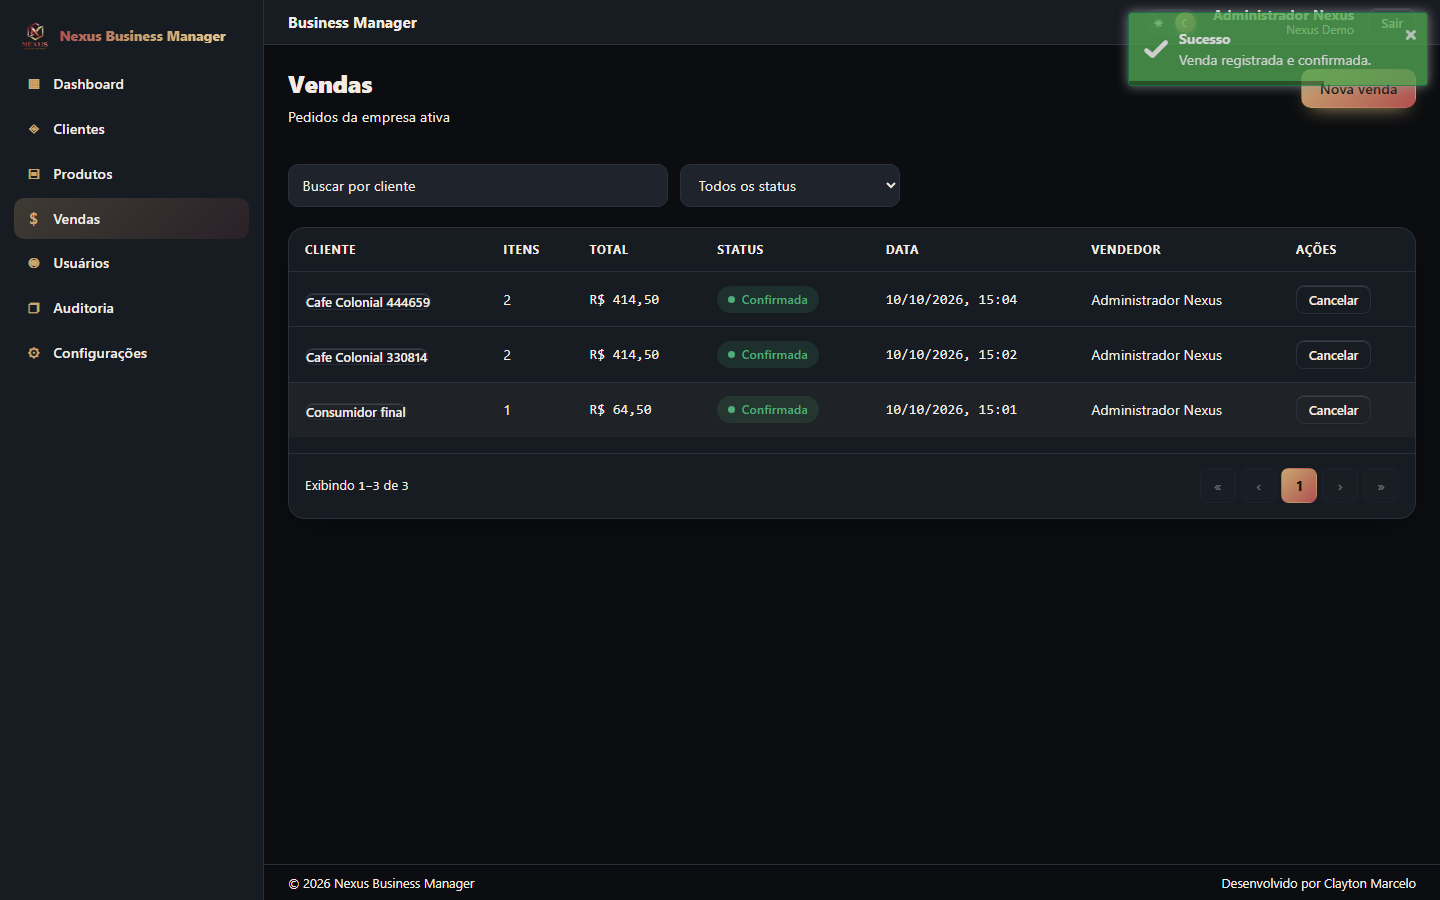
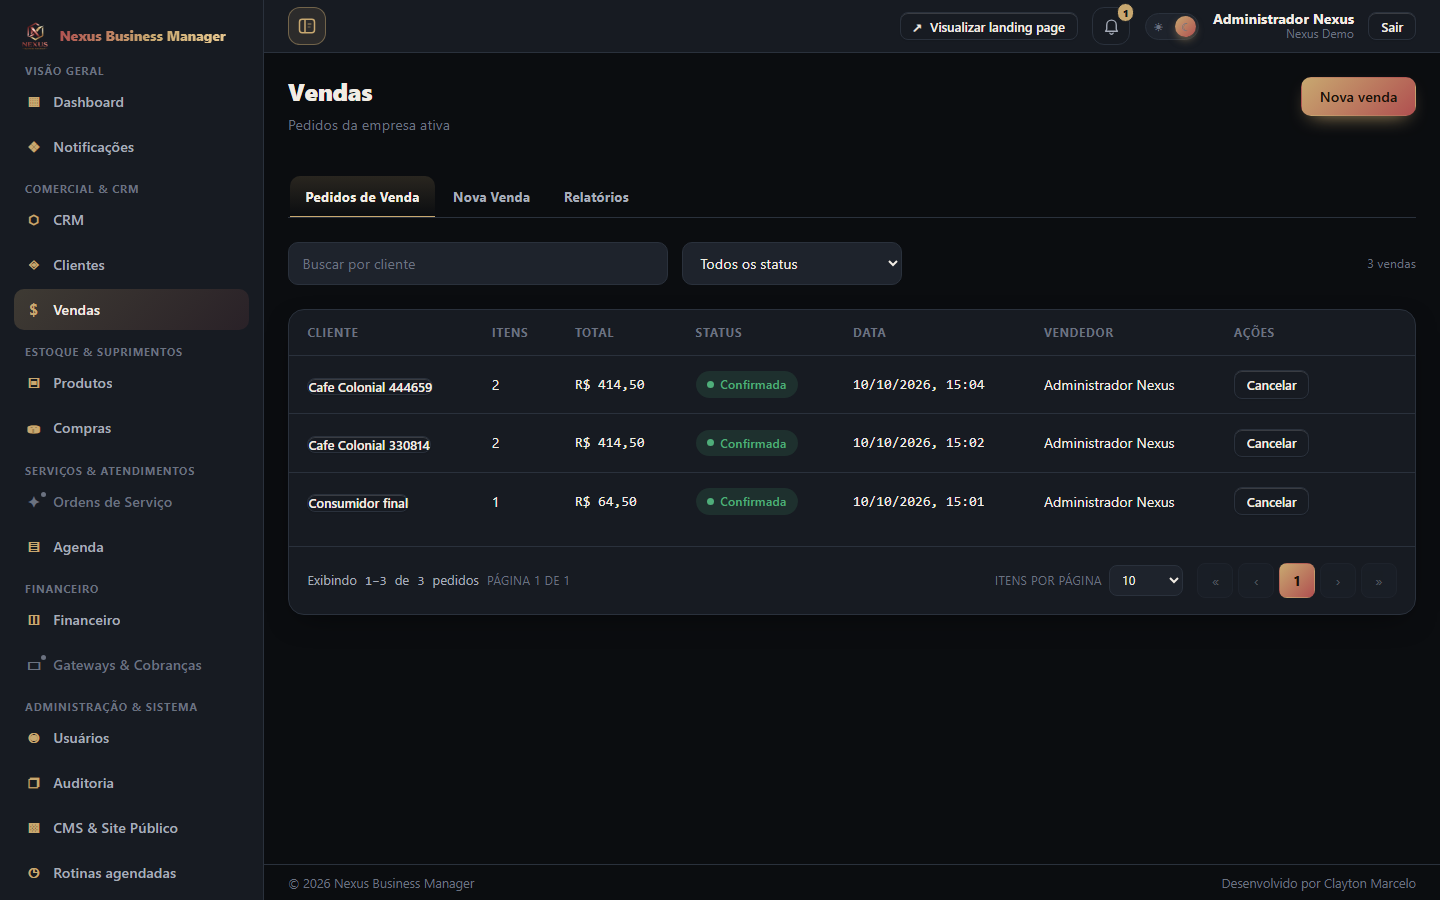
O topo do painel parou de repetir o nome do produto
A marca já mora no menu lateral, no título da aba e no rodapé. No cabeçalho ela
só disputava espaço com o botão do menu, o atalho da landing page, o sino e o
seletor de tema, sem dizer nada que a pessoa ainda não soubesse.

- Saiu o `<div className="admin-header-title">` do `AdminShell.tsx` e, junto, a
  regra `.admin-header-title` que ficou sem dono em `components.css`. O botão de
  alternância passou a ser o primeiro elemento do cabeçalho.
- `tools/verify-sidebar.cjs` foi de 87 para 88 checagens: uma asserção antiga
  virou duas — o cabeçalho não pode carregar nenhum texto de marca, e o botão
  tem de vir antes das ações. Ajustamos também duas listas de itens do menu que
  estavam desatualizadas no próprio teste e já vinham falhando antes desta
  mudança: elas não conheciam a tela "Rotinas agendadas".
- Recapturadas as quatro telas de painel da galeria do README (dashboard,
  Vendas, Financeiro e o editor do site), agora sobre a empresa de
  demonstração, e as seis capturas da prova da sidebar.

Verificado: typecheck e build limpos, suíte em 28 arquivos / 230 testes,
`verify-sidebar.cjs` em 88/88 sem erro de console, pente de BOM/CRLF/`\n` final
sem nenhum arquivo fora do padrão.

diff --git a/apps/web/src/components/layout/AdminShell.tsx b/apps/web/src/components/layout/AdminShell.tsx
@@ -334,7 +334,6 @@ export function AdminShell() {
           >
             <PanelLeftIcon />
           </button>
-          <div className="admin-header-title">Business Manager</div>
           <div className="admin-header-actions">
             {/* Atalho para a vitrine: desde a Fase 1b a vitrine é área da
                 plataforma, e só quem responde por ela abre o editor. */}

diff --git a/apps/web/src/styles/components.css b/apps/web/src/styles/components.css
@@ -548,7 +548,6 @@
   top: 0;
   z-index: 40;
 }
-.admin-header-title { font-weight: 700; color: var(--text-2); font-size: 0.95rem; }
 .admin-header-actions {
   display: flex;
   align-items: center;
